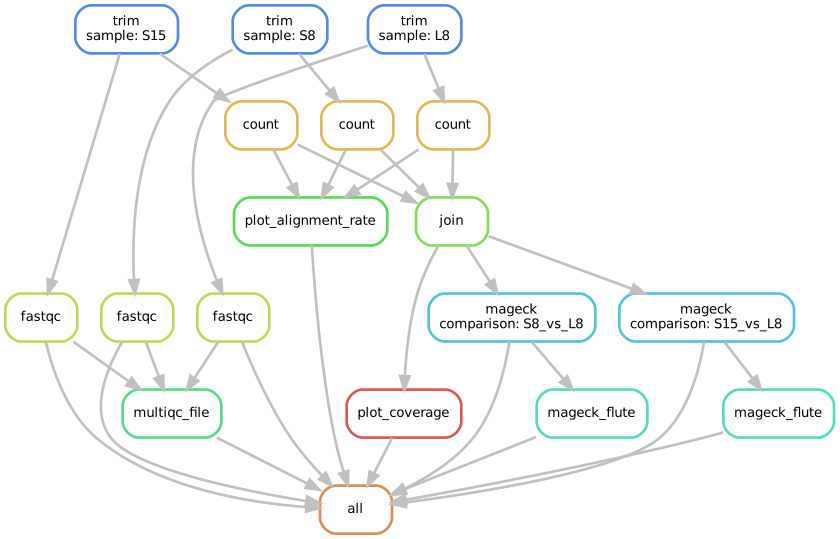
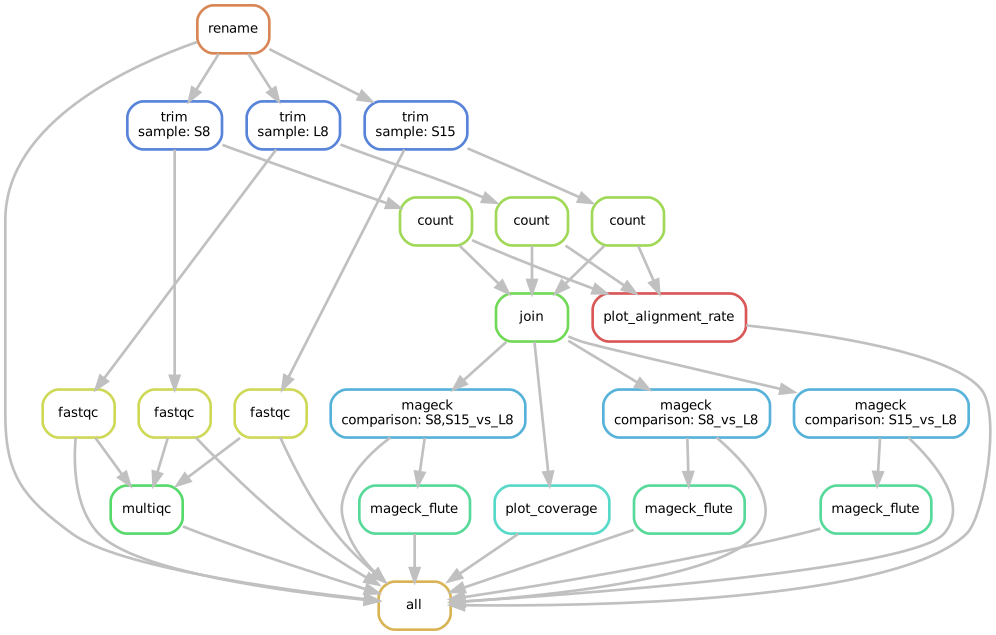
updated documentation

diff --git a/docs/source/execution/userguide.rst b/docs/source/execution/userguide.rst
@@ -68,6 +68,7 @@ Getting started with ``pycrispr``
       comparisons: #test vs control
             1: S8_vs_L8 #sample names are file names without extension
             2: S15_vs_L8
+            3: S8,S15_vs_L8 #samples can be pooled
    resources:
       account: JNATHAN-SL3-CPU
       partition: cclake
@@ -176,9 +177,19 @@ Graphs showing the alignment rates and the fold sequence coverage can be found i
    Fold sequence coverage for each sample (number of aligned reads divided by number of gRNAs in library)
 
 
+Report
+------------------------------------
 
+After the analysis has finished, an HTML report can be generated:
 
+.. code-block:: console
 
+   $ pycrispr report
 
+This report will be located in the analysis directory (pycrispr-report.html).
 
+.. figure:: report.png
+   :align: center
+
+   `snakemake` HTML report
    

diff --git a/docs/source/getting_started/requirements.rst b/docs/source/getting_started/requirements.rst
@@ -20,3 +20,7 @@ Software
 It should also be possible to run ``pycrispr`` on MacOS via *Conda/Mamba* but this has not been tested yet.
 
 All other software dependencies are taken care of by the ``snakemake`` workflow management system.
+
+.. note:: `pycrispr` makes use of `snakemake` `wrappers <https://snakemake-wrappers.readthedocs.io/en/stable/>`_, so an Internet connection is required.
+
+    
